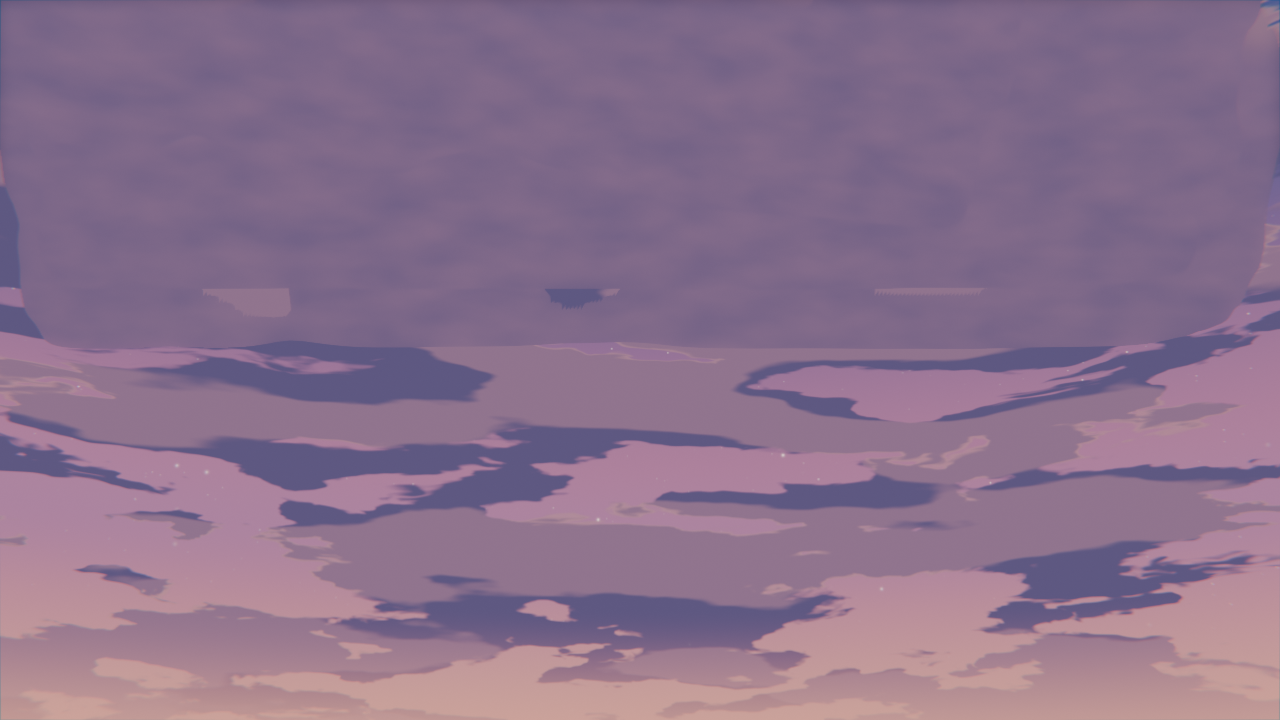
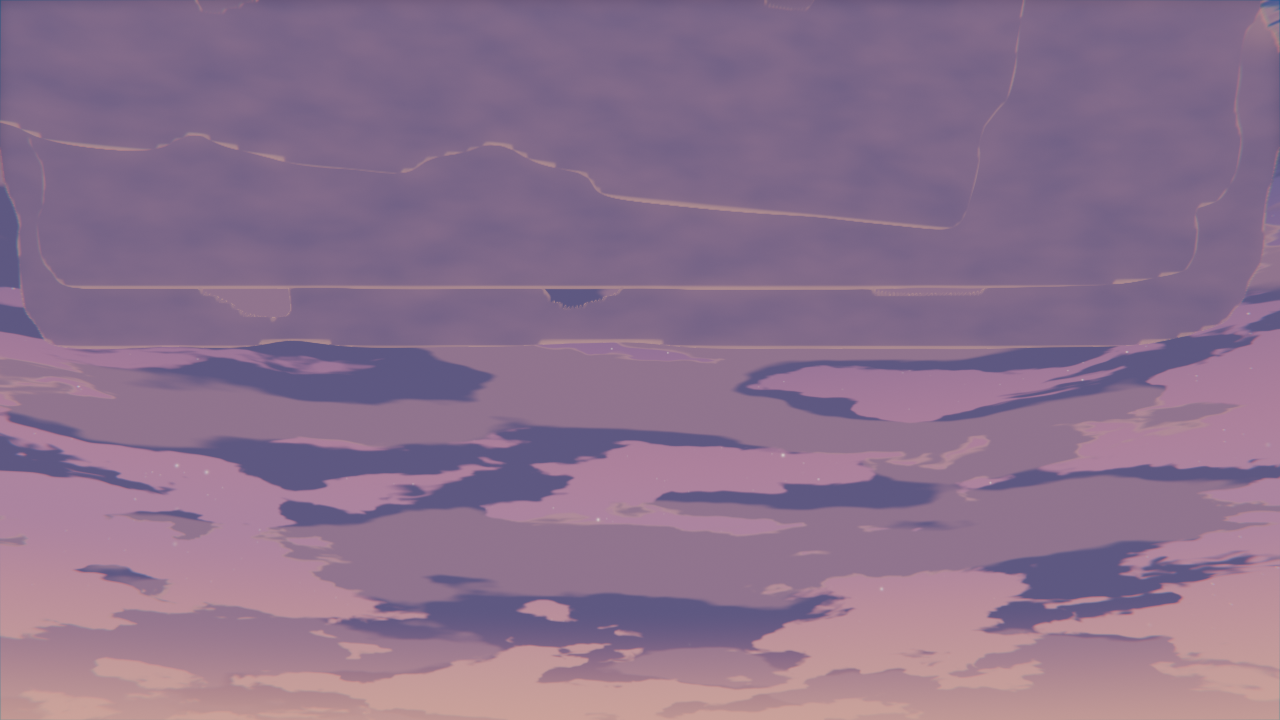
feat: cloud card border rim and linked-copy fixture (v2.50.0)

diff --git a/clouds.py b/clouds.py
@@ -182,6 +182,7 @@ def _cloud_mesh(name, seed, coverage, columns, rows):
                for column in range(columns + 1)]
               for row in range(rows + 1)]
     verts = []
+    edge_flags = []
     index_of = {}
     faces = []
 
@@ -192,6 +193,7 @@ def _cloud_mesh(name, seed, coverage, columns, rows):
             index = len(verts)
             index_of[key] = index
             verts.append((column / columns - 0.5, row / rows - 0.5, 0.0))
+            edge_flags.append(0.0)
         return index
 
     def edge(kind, column, row, t):
@@ -206,6 +208,7 @@ def _cloud_mesh(name, seed, coverage, columns, rows):
             else:
                 verts.append((column / columns - 0.5,
                               (row + t) / rows - 0.5, 0.0))
+            edge_flags.append(1.0)
         return index
 
     for row in range(rows):
@@ -240,6 +243,8 @@ def _cloud_mesh(name, seed, coverage, columns, rows):
                                   polygon[index + 1]))
     if verts:
         mesh.from_pydata(verts, [], faces)
+        attribute = mesh.attributes.new("ald_edge", "FLOAT", "POINT")
+        attribute.data.foreach_set("value", edge_flags)
         mesh.update()
     return mesh
 
@@ -321,7 +326,24 @@ def _material(name, colors):
     vertical.inputs["From Min"].default_value = 0.0
     vertical.inputs["From Max"].default_value = 0.62
     links.new(separate.outputs["Y"], vertical.inputs["Value"])
-    links.new(vertical.outputs["Result"], second.inputs["Factor"])
+    # The contour vertices carry ald_edge=1: a light rim on the island border,
+    # interpolated into the card by the mesh attribute.
+    edge_attribute = nodes.new("ShaderNodeAttribute")
+    edge_attribute.attribute_name = "ald_edge"
+    edge_attribute.attribute_type = "GEOMETRY"
+    edge_attribute.location = (-660, 780)
+    edge_gain = nodes.new("ShaderNodeMath")
+    edge_gain.location = (-460, 780)
+    edge_gain.operation = "MULTIPLY"
+    edge_gain.inputs[1].default_value = 0.65
+    links.new(edge_attribute.outputs["Fac"], edge_gain.inputs[0])
+    rim = nodes.new("ShaderNodeMath")
+    rim.location = (-260, 660)
+    rim.operation = "ADD"
+    rim.use_clamp = True
+    links.new(vertical.outputs["Result"], rim.inputs[0])
+    links.new(edge_gain.outputs[0], rim.inputs[1])
+    links.new(rim.outputs[0], second.inputs["Factor"])
 
     # Stylised local flash: the burst lights the card around the projected
     # point. The handler writes the local position and the energy every frame.

diff --git a/preset_dev/verify.py b/preset_dev/verify.py
@@ -16,7 +16,7 @@ import numpy as np
 
 MODULE = "anime_look_director"
 ADDON_PATH = os.path.dirname(os.path.dirname(os.path.abspath(__file__)))
-EXPECTED_VERSION = (2, 49, 1)
+EXPECTED_VERSION = (2, 50, 0)
 TOLERANCE = 1e-4
 
 
@@ -3528,6 +3528,12 @@ def check_cloud_contour():
         edges, fractional = stats(low)
         check(fractional > 0, "the contour has no interpolated vertices")
         check(max(edges.values()) <= 2, "the contour has non-manifold edges")
+        attribute = low.attributes.get("ald_edge")
+        check(attribute is not None, "the contour has no edge attribute")
+        if attribute is not None:
+            values = [item.value for item in attribute.data]
+            check(values and max(values) == 1.0 and min(values) == 0.0,
+                  "the edge attribute does not mark the border")
         mid = build(0.9)
         meshes.append(mid)
         high = build(1.0)

diff --git a/preset_dev/audit_plan.py b/preset_dev/audit_plan.py
@@ -313,6 +313,8 @@ CHECKS = [
      and has("panels.py", "fx_pass_state")[0]),
     ("VI-SC", "Build repairs a duplicated scene before modifying it",
      lambda: has("operators.py", "ownership.repair", "ald.build")),
+    ("VI-SC", "Cloud cards carry a border rim",
+     lambda: has("clouds.py", "ald_edge", "edge_gain")),
     ("VI-SC", "FX materials are owned by the scene",
      lambda: has("fx.py", "owner=owner", "ald_fx_owner")
      and has("preset_dev/verify.py",

diff --git a/preset_dev/duplicate_fixture.py b/preset_dev/duplicate_fixture.py
@@ -71,6 +71,8 @@ def main():
     fx_count = len(original_fx.objects)
 
     copy = scene.copy()
+    check(clouds._collection(copy) is None,
+          "the copy did not start with the shared collections")
     repaired = ownership.repair(copy)
     check(repaired > 0, "the copy is detected as shared")
     copy_clouds = clouds._collection(copy)

diff --git a/__init__.py b/__init__.py
@@ -1,7 +1,7 @@
 bl_info = {
     "name": "Anime Look Director",
     "author": "Riccardo",
-    "version": (2, 49, 1),
+    "version": (2, 50, 0),
     "blender": (5, 1, 0),
     "location": "Scene Properties > Anime Look Director",
     "description": "Atmospheric palettes and a non-destructive anime compositor stack",

diff --git a/AGENTS.md b/AGENTS.md
@@ -6,7 +6,7 @@ Blender add-on: atmospheric palettes + non-destructive anime compositor stack.
 - Blender **5.1.2** on Windows (compositor node-group API `scene.compositing_node_group`).
 - Python 3.13 / NumPy available inside Blender. No external dependencies.
 - GPL-3.0-or-later. Version in `bl_info` and `blender_manifest.toml` must match
-  (currently **2.49.1**).
+  (currently **2.50.0**).
 
 ## Verify (run after every change)
 ```powershell
@@ -623,6 +623,10 @@ Prints luminance / contrast / saturation per palette and writes `sheet.png`.
     (`_cell_rings`): the vertices sit on the iso-line, the mesh is triangulated
     and manifold. Never keep or drop whole cells again: that produced the
     10-20 px staircase at 1920;
+  - v2.50: the contour vertices carry `ald_edge=1`, the interior 0; the
+    material adds Cloud Light through the attribute (`edge_gain` + `rim`). The
+    rim is a vertex attribute, never alpha or a second pass: the cards stay
+    opaque and write depth/Cryptomatte;
   - `Clouds Coverage` is the threshold of that field: 0 builds no faces, 0.5 an
     intermediate mass, 1 the densest. It is geometry, never only a colour. The
     v2.47 mapping is `0.98 - 1.02 * coverage` (clamped at 0): 0.9 and 1.0 are

diff --git a/RECAP.md b/RECAP.md
@@ -1,6 +1,6 @@
 # Anime Look Director — Recap
 
-**Versione 2.49.1** · Blender 5.1.2 · GPL-3.0-or-later
+**Versione 2.50.0** · Blender 5.1.2 · GPL-3.0-or-later
 
 ## In breve
 
@@ -80,6 +80,15 @@ Non salva mai il `.blend` dell'utente e non richiede dipendenze esterne.
 26. **Diagnostica e benchmark** — report esplicito `Diagnose FX` (read-only nel
     pannello, stato `UNKNOWN` finché non viene calcolato) e benchmark separati
     per creazione, update, clock, frame, memoria e render.
+
+## Novità 2.50.0 — bordo delle card e fixture linked-copy
+
+- **Rim dal contorno**: `_cloud_mesh` scrive l'attributo `ald_edge` (1 sui
+  vertici del contorno, 0 all'interno); il materiale mescola Cloud Light con il
+  gradiente verticale tramite l'attributo. Bordo morbido senza alpha, senza
+  pass aggiuntivo e senza rompere Cryptomatte/Depth.
+- **Fixture**: la copia deve partire con le collection condivise prima del
+  repair, così il caso linked/full è esplicito.
 
 ## Novità 2.49.1 — materiali FX per scena
 

diff --git a/README.md b/README.md
@@ -2,7 +2,7 @@
 
 Atmospheric palettes and a non-destructive anime compositor stack for Blender 5.1+.
 
-## What it does (v2.49.1)
+## What it does (v2.50.0)
 - Seven atmosphere presets (Golden Hour, **After School Sunset**, Summer Noon,
   Rainy Tokyo, Cyberpunk Neon, Sakura Spring, Twilight Dusk) with a
   Scene-Linear Rec.709 color script calibrated for AgX.
@@ -289,7 +289,9 @@ manifest `[build]` list.
   Cloud Blend, duplicate fixture save/reload
 - v2.49.0 - solver-driven 0.95 show fit, intentional crop, physical light
   events with two cloud sources
-- v2.49.1 - per-scene FX materials (no mutable material sharing) (current)
+- v2.49.1 - per-scene FX materials (no mutable material sharing)
+- v2.50.0 - cloud card border rim from the contour attribute; linked-copy
+  fixture (current)
 
 ## Recap
 Italian overview of the whole add-on: [`RECAP.md`](RECAP.md).

diff --git a/CHANGELOG.md b/CHANGELOG.md
@@ -1,5 +1,20 @@
 # Changelog
 
+## 2.50.0 - 2026-10-27
+Cloud card border rim and linked-copy fixture.
+
+### Added
+- `_cloud_mesh` writes `ald_edge` (1 on the contour vertices, 0 inside); the
+  card material mixes Cloud Light with the vertical gradient through the
+  attribute. The islands now have a soft border rim without alpha, a second
+  pass or a change to the opaque Cryptomatte/Depth contract.
+- The duplicate fixture asserts that the copy starts with the shared
+  collections before the repair, so the linked/full case is explicit.
+
+### Evidence
+- `preset_dev/clouds/` regenerated with the rim; the showcase and the cloud
+  benchmark are regenerated from the same build.
+
 ## 2.49.1 - 2026-10-26
 Per-scene FX materials.
 
